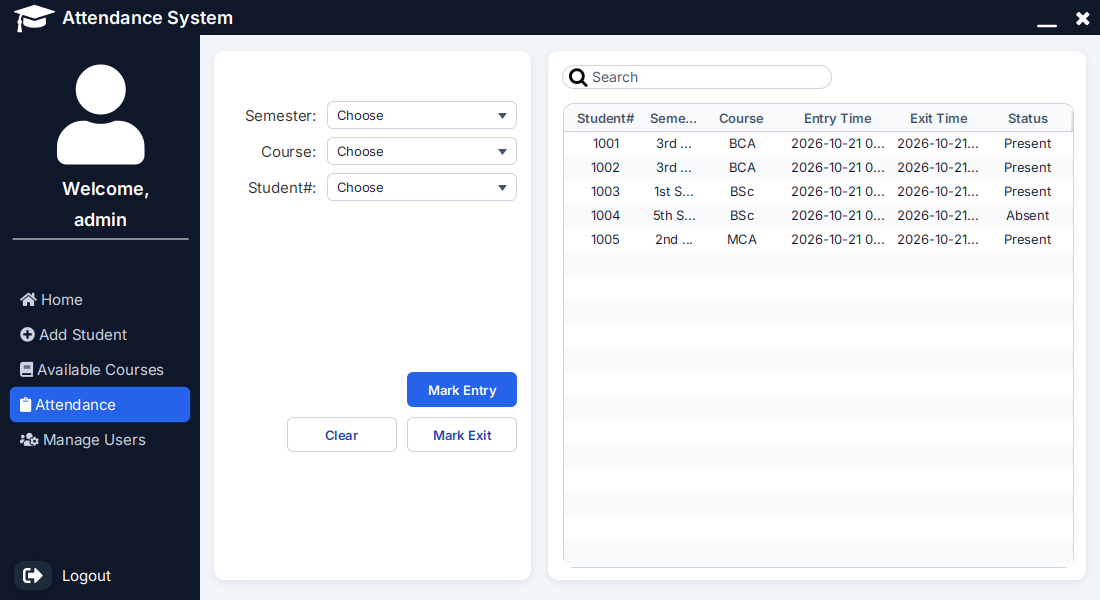
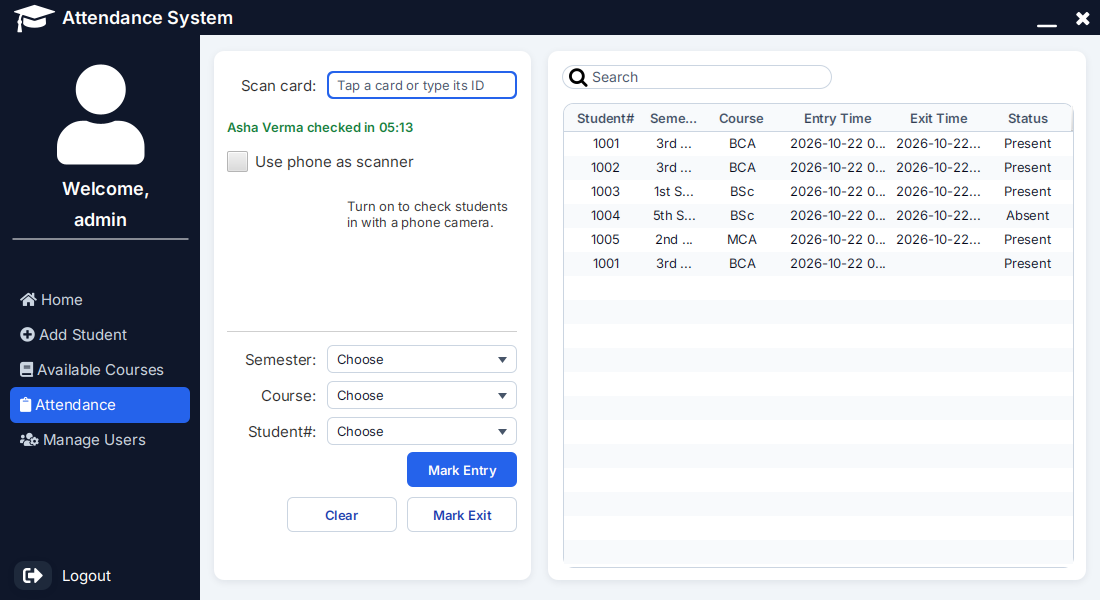
Document card scanning and the phone scanner
The README now lists card scanning and the phone scanner as features,
and has two new sections. "Scan a card in 30 seconds" walks through
the demo: log in, open Attendance, type DEMO-1001 and press Enter,
and optionally pair a phone. "Using an RFID reader" explains that
almost every USB reader types the card ID like a keyboard, so it
works with no setup, and that typing the ID does the same thing.

docs/decisions.md gets a "Card readers" section: why keyboard mode,
why the phone sends a photo instead of using a live camera (browsers
allow a live camera only over https), how a serial or Arduino reader
would plug in through AttendanceService.scan, and how the phone
server is kept safe (a random token, and it runs only while switched
on).

docs/architecture.md describes the scanner package and StudentCards,
and adds them to the diagram, the error table and the test table.
docs/database.md adds the V3 migration and the card_id column. The
scanner package gets a package-info.java like the other packages.

The student, attendance and new phone scanner screenshots are taken
from the current app.

All 418 tests pass and javadoc builds without warnings.

diff --git a/src/main/java/com/bsmi/attendancesystem/scanner/package-info.java b/src/main/java/com/bsmi/attendancesystem/scanner/package-info.java
@@ -1,0 +1,7 @@
+/**
+ * Lets a phone act as a card reader: a small http server on the local network, guarded by a
+ * random token, that serves a page for photographing a student's QR card or typing its ID, and
+ * passes each ID to {@link com.bsmi.attendancesystem.service.AttendanceService#scan}. It runs
+ * only while "Use phone as scanner" is switched on.
+ */
+package com.bsmi.attendancesystem.scanner;

diff --git a/README.md b/README.md
@@ -13,15 +13,20 @@ and log in.
 - **Dashboard** with totals and charts of present and absent students.
 - **Students**: add, edit, delete and search, with an optional photo.
 - **Courses**: add, edit and delete. A course that students still use can't be deleted.
-- **Attendance**: record entry and exit times.
+- **Attendance**: record entry and exit times by picking a student, or by scanning their card.
+- **Card scanning**: each student can have a card ID. An RFID reader, a barcode or QR scanner, or
+  plain typing fills the scan field; the first scan of the day checks the student in, the next one
+  checks them out. Each student's QR card can be saved as a PNG to print.
+- **Phone as scanner**: no reader at hand? Switch on "Use phone as scanner", scan the pairing QR
+  code with a phone on the same Wi-Fi, and photograph a student's QR card.
 - **User management** (Admin only): add, edit and delete users and set their role. Nobody can
   delete themselves, and the last Admin can't be removed or made an Employee.
 
 | Login | Students | Courses |
 |---|---|---|
 | ![Login](docs/screenshots/login.png) | ![Students](docs/screenshots/students.png) | ![Courses](docs/screenshots/courses.png) |
-| **Attendance** | **User management** | |
-| ![Attendance](docs/screenshots/attendance.png) | ![Users](docs/screenshots/users.png) | |
+| **Attendance** | **User management** | **Phone scanner** |
+| ![Attendance](docs/screenshots/attendance.png) | ![Users](docs/screenshots/users.png) | ![Phone scanner](docs/screenshots/phone-scanner.png) |
 
 ## Try it
 
@@ -57,6 +62,33 @@ three courses and a few days of attendance.
 | `admin` | `admin123` | Admin |
 | `employee` | `employee123` | Employee |
 
+### Scan a card in 30 seconds
+
+1. Log in as `admin` / `admin123` and open **Attendance**.
+2. The **Scan card** field already has focus. Type `DEMO-1001` and press Enter: "Asha Verma
+   checked in" appears and a new row shows up in the table. Every demo student has a card,
+   `DEMO-1001` to `DEMO-1006`.
+3. Wait a few seconds and scan `DEMO-1001` again to check her out.
+4. Optional: tick **Use phone as scanner**, scan the QR code with your phone (same Wi-Fi), and
+   type a card ID on the phone, or photograph a QR card saved with **Save card...** on the
+   Add Student screen.
+
+## Using an RFID reader
+
+Almost every USB RFID reader, and most barcode and QR scanners, work in *keyboard mode*: the
+computer sees them as a keyboard that types the card's number and presses Enter. So no driver or
+setup is needed:
+
+1. Plug the reader in.
+2. On **Add Student**, select a student, click the **Card ID** field and tap their card. The
+   reader types the ID; save the student.
+3. On **Attendance**, tap the card. The scan field has focus, so the reader's Enter checks the
+   student in or out.
+
+Without a reader, typing the ID and pressing Enter does exactly the same thing. A second scan of
+the same card within 5 seconds is ignored, so one tap doesn't check a student in and straight out
+again.
+
 ## Tech stack
 
 | Part | Choice |
@@ -65,6 +97,8 @@ three courses and a few days of attendance.
 | UI | JavaFX 27, FXML, MaterialFX, Ikonli icons, the Inter font |
 | Database | H2 (embedded), schema managed by Flyway migrations |
 | Passwords | bcrypt (jbcrypt) |
+| QR cards | ZXing core |
+| Phone scanner | The JDK's built-in HTTP server (`jdk.httpserver`) |
 | Build | Maven (wrapper included), jlink and jpackage for installers |
 | Tests | JUnit 6, AssertJ, TestFX, JaCoCo coverage gate |
 | CI | GitHub Actions on Linux, Windows and macOS, Dependabot |
@@ -75,7 +109,7 @@ three courses and a few days of attendance.
   suite covers
 - [Database](docs/database.md): the tables, an ER diagram and the migrations
 - [Design decisions](docs/decisions.md): why H2 and not MySQL (and how to switch), why Flyway,
-  DAOs and bcrypt, the UI design, and the known gaps
+  DAOs and bcrypt, card readers and the phone scanner, the UI design, and the known gaps
 
 ## Where the data is stored
 
@@ -105,8 +139,8 @@ Run `./mvnw verify` (Windows: `mvnw.cmd verify`).
 - The UI tests open the real app and click through it, so they need a display. On a Linux machine
   without one (a server or CI runner) they are skipped; run `xvfb-run ./mvnw verify` to include
   them. `./mvnw verify -DexcludedGroups=ui` skips them anywhere.
-- The build fails if the tests cover less than 90% of the lines in the `dao` and `service`
-  packages. The coverage report is at `target/site/jacoco/index.html`.
+- The build fails if the tests cover less than 90% of the lines in the `dao`, `service` and
+  `scanner` packages. The coverage report is at `target/site/jacoco/index.html`.
 - GitHub Actions runs the same build with the UI tests on Linux, Windows and macOS for every push
   and pull request (`.github/workflows/ci.yml`). A separate job tries the newest Java (27) as an
   early warning; it is allowed to fail.
@@ -128,8 +162,8 @@ To build an installer instead, add `-Ddist.type=` followed by the type:
 
 How it works: jlink builds a Java runtime that holds only the JDK modules the app needs. jpackage
 puts that runtime, the app and its libraries in one folder or installer. H2, Flyway and jbcrypt
-aren't Java modules, and jlink can't put those into a runtime, so they sit next to it in
-`lib/app/mods`.
+and ZXing aren't Java modules, and jlink can't put those into a runtime, so they sit next to it
+in `lib/app/mods`.
 
 ## Publishing a release
 

diff --git a/docs/architecture.md b/docs/architecture.md
@@ -7,7 +7,9 @@ services and DAOs. Each layer only calls the one below it.
 flowchart TD
     fxml["FXML screens<br/>login-view, dashboard-view + CSS"]
     ctrl["Controllers<br/>LoginController, DashboardController"]
-    svc["service<br/>AuthService, StudentService, CourseService,<br/>AttendanceService, UserService, ImageStore"]
+    svc["service<br/>AuthService, StudentService, CourseService,<br/>AttendanceService, UserService, ImageStore, StudentCards"]
+    scan["scanner<br/>PhoneScanServer, NetworkAddresses"]
+    phone(["Phone browser"])
     dao["dao<br/>StudentDao, CourseDao, AttendanceDao, UserDao"]
     db[("H2 database file")]
     img[("images/ folder")]
@@ -16,6 +18,9 @@ flowchart TD
 
     fxml --> ctrl --> svc --> dao --> db
     svc --> img
+    ctrl --> scan
+    phone -->|http + token| scan
+    scan -->|"card ID on the UI thread"| ctrl
     start --> paths
     start -->|Flyway| db
     dao --> paths
@@ -53,8 +58,26 @@ The rules, kept out of the controllers so they can be tested without a screen:
 - `ImageStore` copies a chosen photo into `images/` in the data folder under a random name, and
   stores only that name. It accepts only `.png`, `.jpg` and `.jpeg`, and refuses names that would
   point outside the folder.
+- `AttendanceService.scan(cardId)` is the one entry point for every card reader. It checks the
+  student in, or out if they have an open entry today, and ignores the same card again within 5
+  seconds.
+- `StudentCards` draws a printable PNG card with the card ID as a QR code (ZXing), makes new IDs
+  like `STU-K7Q2MX9A`, and reads the ID back from a photo.
 - `UserSession` (in the main package) remembers who logged in, so the dashboard can hide User
   Management from Employees.
+
+## scanner
+
+Lets a phone act as a card reader:
+
+- `PhoneScanServer` runs the JDK's built-in HTTP server on a free port while "Use phone as
+  scanner" is ticked. Every path starts with a random 128-bit token. `GET /<token>/` serves the
+  phone page (`scanner/phone-page.html`); `POST /<token>/scan` takes a photo or a typed ID, reads
+  the QR code with `StudentCards.decode`, and hands the ID to the UI thread, which calls
+  `AttendanceService.scan`. The phone gets the same message the desktop shows.
+- `ScanReply` is that answer: whether the scan worked, and the message.
+- `NetworkAddresses` lists the computer's local IPv4 addresses, so the pairing QR code holds an
+  address the phone can reach. If there are several, the user picks one.
 
 ## Controllers and FXML
 
@@ -68,6 +91,8 @@ and no business rules.
 | Thrown by | Type | What the user sees |
 |---|---|---|
 | service | `ValidationException` subclasses (`MissingFieldException`, `AlreadyExistsException`, `StillInUseException`, ...) | An error alert with the exception's message, written for the user |
+| scan field | `UnknownCardException`, other `ValidationException`s | The message in red under the scan field, no alert |
+| scanner | Bad token, a file that isn't a photo, no QR code, too large | 404, 415, 422 or 413 with a plain message on the phone |
 | dao | `DataAccessException` | A "database error" alert; the app keeps running |
 | startup | `DatabaseSetupException` | JavaFX stops the launch and prints the cause. A friendlier dialog is a known gap |
 
@@ -78,10 +103,11 @@ Run all of them with `./mvnw verify`.
 | Suite | Covers |
 |---|---|
 | `dao/*Test` | Each DAO against its own in-memory H2 with the real migrations: CRUD, not-found, duplicates, injection strings stored as plain text, closed connections |
-| `service/*Test` | Every validation rule and exception, every login outcome, photo copy and rejection |
+| `service/*Test` | Every validation rule and exception, every login outcome, photo copy and rejection, scan in/out/repeat, QR cards drawn and read back |
+| `scanner/*Test` | The phone server over real http: page, typed ID, card photo, wrong token, bad and oversized uploads, stop; address choice |
 | `AppPathsTest`, `DatabaseSettingsTest`, `DatabaseMigrationsTest`, ... | Folder choice per OS, env variables, a fresh and an already-current database, a broken one |
-| `ui/*Test` (TestFX, tagged `ui`) | Login success and failure, form errors, course delete confirm/cancel, logout, the sidebar highlight |
+| `ui/*Test` (TestFX, tagged `ui`) | Login success and failure, form errors, course delete confirm/cancel, logout, the sidebar highlight, scanning a card, the phone pairing panel |
 
 - UI tests need a display. On Linux, CI gives them one with `xvfb-run`. Without a display they are skipped, and
   `-DexcludedGroups=ui` skips them on purpose.
-- JaCoCo fails the build if line coverage of `dao` or `service` drops below 90%.
+- JaCoCo fails the build if line coverage of `dao`, `service` or `scanner` drops below 90%.

diff --git a/docs/decisions.md b/docs/decisions.md
@@ -78,6 +78,31 @@ JDK modules, and the libraries sit beside it on the module path.
 - A **Java 27 CI job** runs the build on the next JDK. It is allowed to fail, and works as an
   early warning before the next upgrade.
 
+## Card readers
+
+- **Keyboard mode.** Almost all USB RFID readers, and barcode or QR scanners too, act as a
+  keyboard: they type the card's ID and press Enter. So the Attendance screen has one text field
+  that reacts to Enter. That supports every such device with no drivers and no library, and it
+  can be tested by typing. Every scan goes through `AttendanceService.scan(cardId)`: an open entry
+  today means check out, otherwise check in.
+- **A photo, not a live camera.** The phone stands in for a reader through a small page the app
+  serves on the Wi-Fi. Browsers allow a live camera only on https pages, and https on a LAN
+  address needs a certificate the phone trusts. A photo upload
+  (`<input type="file" accept="image/*" capture>`) works over plain http, and the app decodes the
+  QR code from the photo with ZXing.
+- **Other readers.** A serial or Arduino reader, or a reader with its own SDK, would be one more
+  class that reads IDs and calls `AttendanceService.scan` on the UI thread, the same way
+  `PhoneScanServer` does. Nothing else changes.
+- **Security of the phone server.** It is plain http on the local network, so:
+  - it runs only while "Use phone as scanner" is ticked, and stops on untick, logout and exit
+  - every URL must start with a random 128-bit token (`SecureRandom`); anything else gets 404.
+    Switching it off and on makes a new token
+  - photos over 15 MB and typed IDs over 64 characters are refused
+  - it can only check students in and out, never read or change other data
+
+  Anyone on the same network who sees the pairing QR code could scan cards, so it is meant for a
+  trusted Wi-Fi.
+
 ## Known gap: database work on the UI thread
 
 Every database call runs on the JavaFX application thread, the same thread that draws the

diff --git a/docs/database.md b/docs/database.md
@@ -9,8 +9,9 @@ to be installed: on every start [Flyway](https://flywaydb.org) runs any migratio
 |---|---|
 | `V1__schema.sql` | Creates the four tables below |
 | `V2__demo_data.sql` | Adds two logins, three courses and a few fictional students with attendance |
+| `V3__student_card_id.sql` | Adds `student.card_id VARCHAR(64)`, unique and nullable, and gives demo students 1001–1006 the cards `DEMO-1001` to `DEMO-1006` |
 
-To change the schema, add a new `V3__what_it_does.sql`. Never edit a migration that has already
+To change the schema, add a new `V4__what_it_does.sql`. Never edit a migration that has already
 been released: Flyway checks each one's checksum and refuses to start if one has changed.
 
 ## Tables
@@ -40,6 +41,7 @@ erDiagram
         DATE birthDate
         VARCHAR status
         VARCHAR image "photo file name or empty"
+        VARCHAR card_id UK "NULL means no card"
         DATE added_on
     }
     student_attendance {
@@ -60,7 +62,8 @@ erDiagram
   *Admin* can manage users; an *Employee* can't.
 - **course**: the courses a student can be enrolled in.
 - **student**: one row per student. `image` holds only a file name. The photo itself is copied
-  into `images/` in the data folder, so the database works on any machine.
+  into `images/` in the data folder, so the database works on any machine. `card_id` is what a
+  card reader types when the student's card is scanned; two students can't share one.
 - **student_attendance**: one row per entry/exit. Deleting a student deletes their attendance
   (`ON DELETE CASCADE`). A course that has attendance rows can't be deleted.
 
